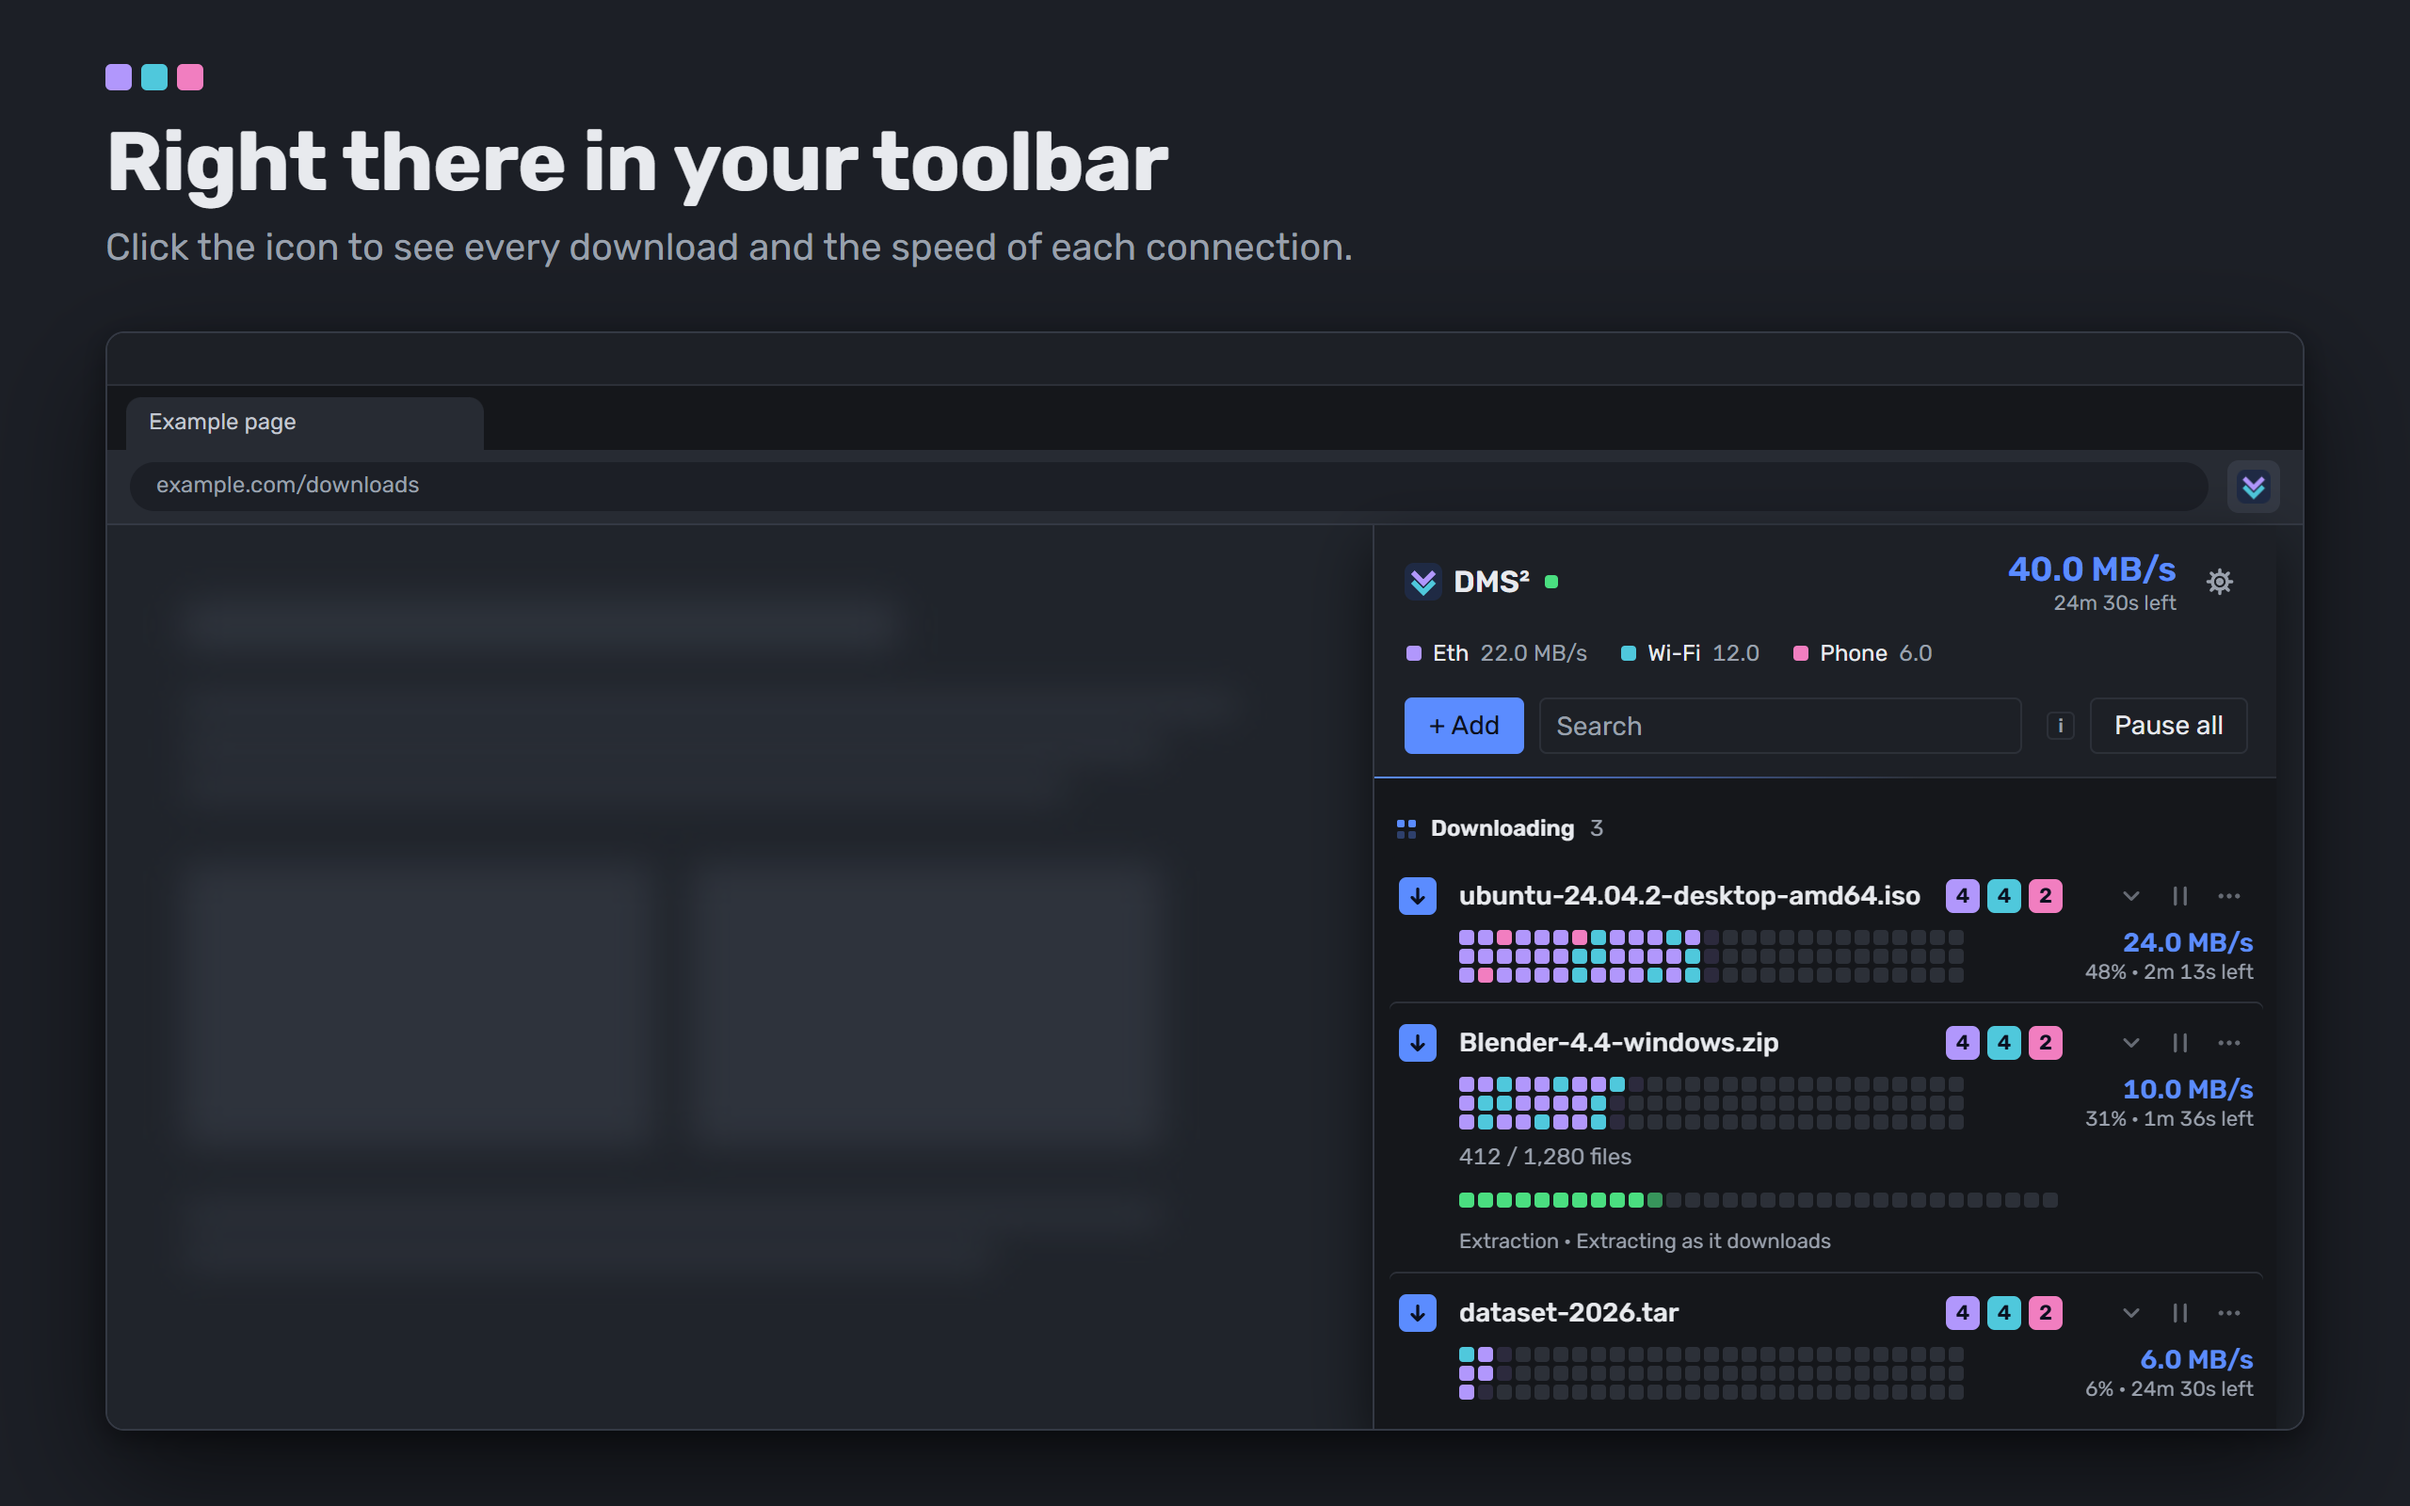
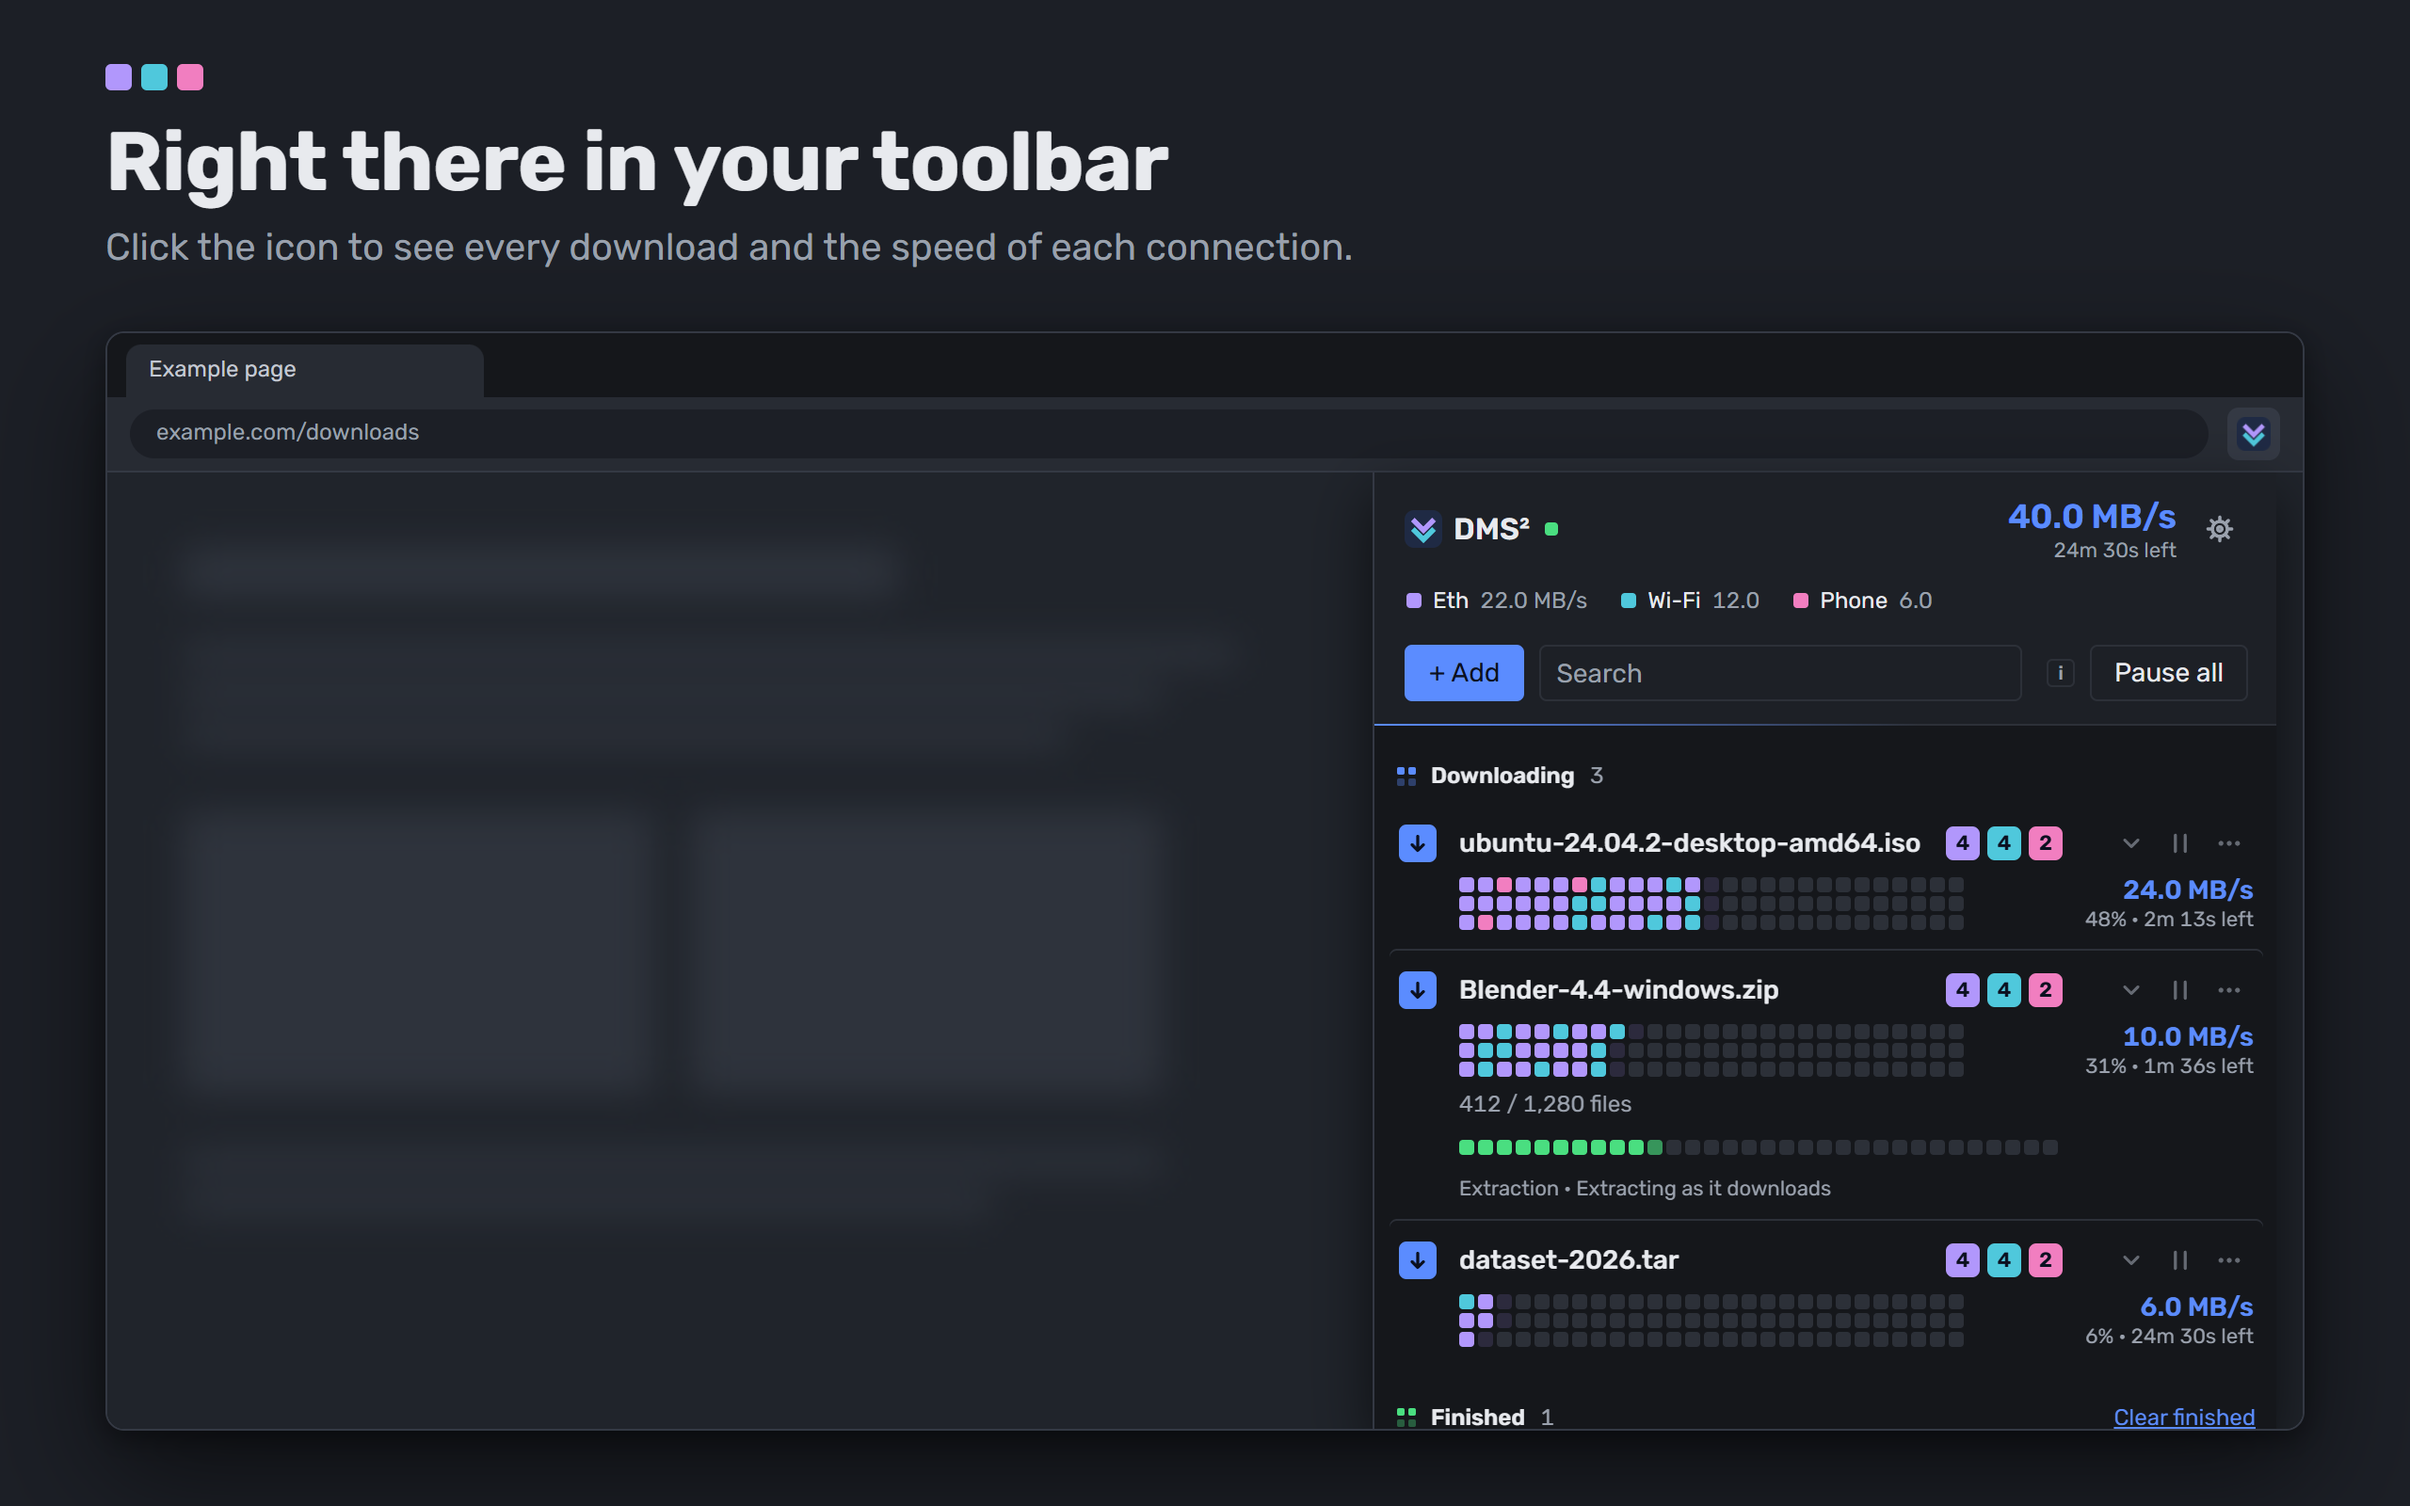
The toolbar store shot has no empty title strip above the browser's tab row

diff --git a/extension/dev/store/shot.html b/extension/dev/store/shot.html
@@ -52,8 +52,9 @@
   h.textContent = s.h; p.textContent = s.p; t.textContent = s.title;
   if (s.popup) {
     const keep = f; // the id's global goes away while it is out of the page
+    t.style.display = "none"; v.style.height = "583px"; // the browser's own tab strip is the top edge
     v.innerHTML = document.getElementById("browser").innerHTML; v.append(keep);
-    f.style.cssText = "width:480px;height:481px;left:672px;top:74px;box-shadow:0 12px 32px rgba(0,0,0,.6);border-left:1px solid #343944";
+    f.style.cssText = "width:480px;height:509px;left:672px;top:74px;box-shadow:0 12px 32px rgba(0,0,0,.6);border-left:1px solid #343944";
   } else {
     const scale = 1166 / s.vw;
     f.style.cssText = `width:${s.vw}px;height:${Math.ceil(555 / scale) + s.y}px;transform:scale(${scale}) translate(${-s.x}px,${-s.y}px)`;
